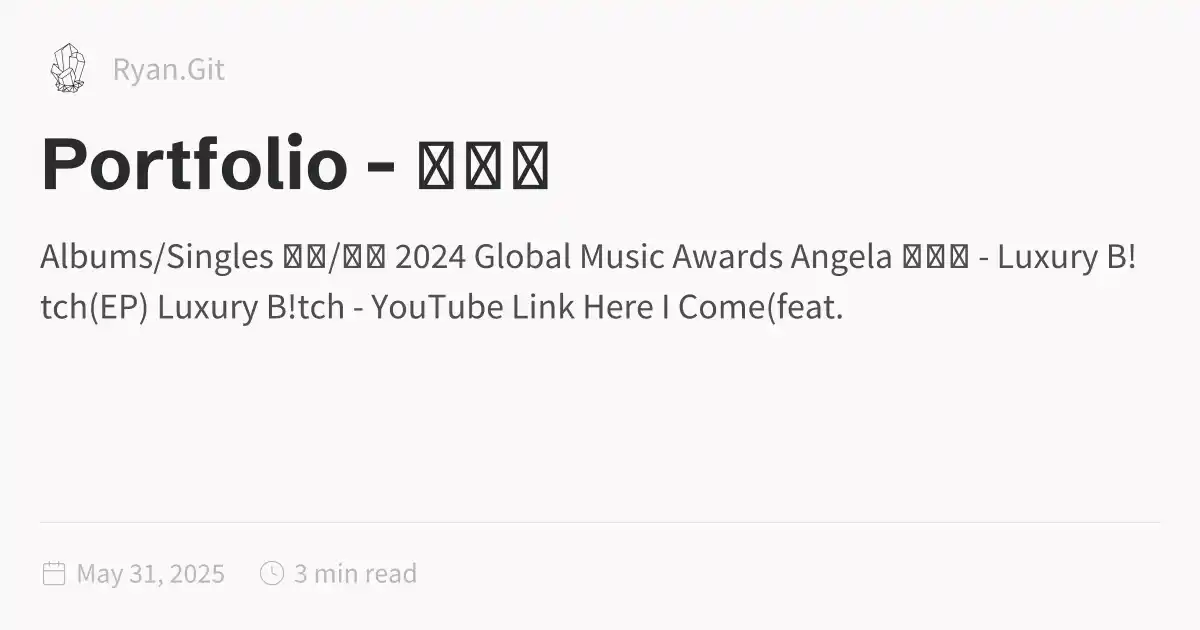
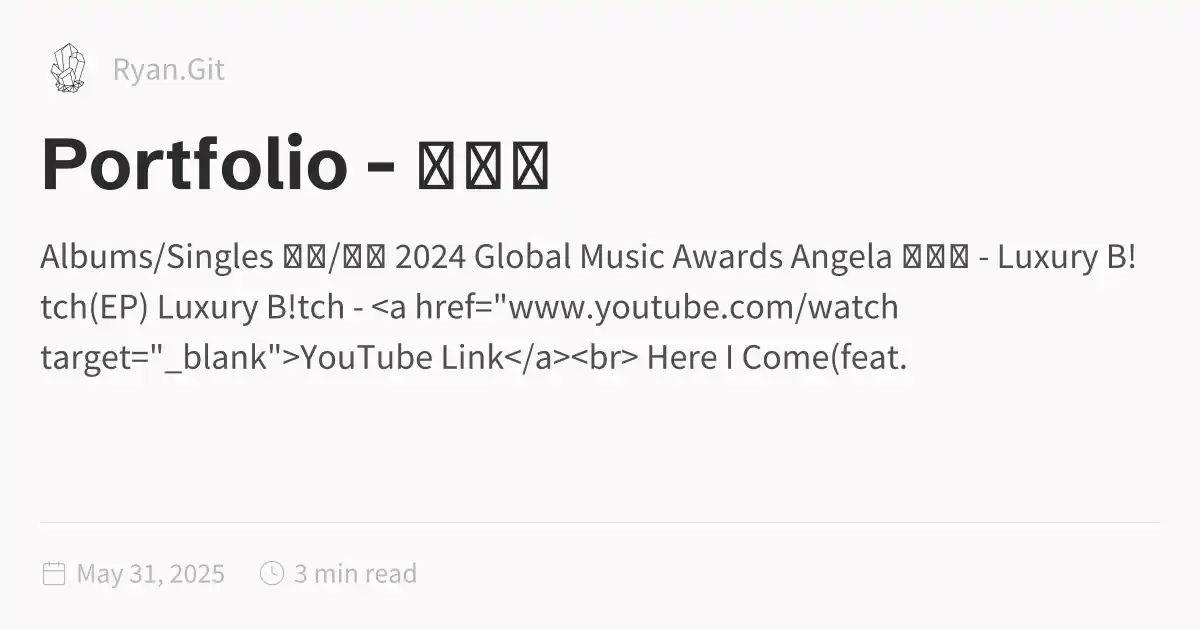
Deploy updated site

Changed region(s): [[0.1542, 0.5429, 0.7708, 0.6032], [0.3083, 0.4524, 0.74, 0.5127], [0.0308, 0.5429, 0.1233, 0.6032]]

diff --git a/Portfolio---作品集.html b/Portfolio---作品集.html
@@ -1,5 +1,5 @@
 <!DOCTYPE html>
-<html lang="en"><head><title>Portfolio - 作品集</title><meta charset="utf-8"/><link rel="preconnect" href="https://fonts.googleapis.com"/><link rel="preconnect" href="https://fonts.gstatic.com"/><link rel="stylesheet" href="https://fonts.googleapis.com/css2?family=Schibsted Grotesk:wght@400;700&amp;family=Source Sans Pro:ital,wght@0,400;0,600;1,400;1,600&amp;family=IBM Plex Mono:wght@400;600&amp;display=swap"/><link rel="preconnect" href="https://cdnjs.cloudflare.com" crossorigin="anonymous"/><meta name="viewport" content="width=device-width, initial-scale=1.0"/><meta name="og:site_name" content="Ryan.Git"/><meta property="og:title" content="Portfolio - 作品集"/><meta property="og:type" content="website"/><meta name="twitter:card" content="summary_large_image"/><meta name="twitter:title" content="Portfolio - 作品集"/><meta name="twitter:description" content="Albums/Singles 專輯/單曲 2024 Global Music Awards Angela 曾妃攸 - Luxury B!tch(EP) Luxury B!tch - YouTube Link Here I Come(feat."/><meta property="og:description" content="Albums/Singles 專輯/單曲 2024 Global Music Awards Angela 曾妃攸 - Luxury B!tch(EP) Luxury B!tch - YouTube Link Here I Come(feat."/><meta property="og:image:alt" content="Albums/Singles 專輯/單曲 2024 Global Music Awards Angela 曾妃攸 - Luxury B!tch(EP) Luxury B!tch - YouTube Link Here I Come(feat."/><meta property="twitter:domain" content="Ryan.Git"/><meta property="og:url" content="https://ryan.git/Portfolio---作品集"/><meta property="twitter:url" content="https://ryan.git/Portfolio---作品集"/><link rel="icon" href="./static/icon.png"/><meta name="description" content="Albums/Singles 專輯/單曲 2024 Global Music Awards Angela 曾妃攸 - Luxury B!tch(EP) Luxury B!tch - YouTube Link Here I Come(feat."/><meta name="generator" content="Quartz"/><link href="./index.css" rel="stylesheet" type="text/css" spa-preserve/><style>.expand-button {
+<html lang="en"><head><title>Portfolio - 作品集</title><meta charset="utf-8"/><link rel="preconnect" href="https://fonts.googleapis.com"/><link rel="preconnect" href="https://fonts.gstatic.com"/><link rel="stylesheet" href="https://fonts.googleapis.com/css2?family=Schibsted Grotesk:wght@400;700&amp;family=Source Sans Pro:ital,wght@0,400;0,600;1,400;1,600&amp;family=IBM Plex Mono:wght@400;600&amp;display=swap"/><link rel="preconnect" href="https://cdnjs.cloudflare.com" crossorigin="anonymous"/><meta name="viewport" content="width=device-width, initial-scale=1.0"/><meta name="og:site_name" content="Ryan.Git"/><meta property="og:title" content="Portfolio - 作品集"/><meta property="og:type" content="website"/><meta name="twitter:card" content="summary_large_image"/><meta name="twitter:title" content="Portfolio - 作品集"/><meta name="twitter:description" content="Albums/Singles 專輯/單曲 2024 Global Music Awards Angela 曾妃攸 - Luxury B!tch(EP) Luxury B!tch - &lt;a href=&quot;www.youtube.com/watch target=&quot;_blank&quot;>YouTube Link&lt;/a>&lt;br> Here I Come(feat."/><meta property="og:description" content="Albums/Singles 專輯/單曲 2024 Global Music Awards Angela 曾妃攸 - Luxury B!tch(EP) Luxury B!tch - &lt;a href=&quot;www.youtube.com/watch target=&quot;_blank&quot;>YouTube Link&lt;/a>&lt;br> Here I Come(feat."/><meta property="og:image:alt" content="Albums/Singles 專輯/單曲 2024 Global Music Awards Angela 曾妃攸 - Luxury B!tch(EP) Luxury B!tch - &lt;a href=&quot;www.youtube.com/watch target=&quot;_blank&quot;>YouTube Link&lt;/a>&lt;br> Here I Come(feat."/><meta property="twitter:domain" content="Ryan.Git"/><meta property="og:url" content="https://ryan.git/Portfolio---作品集"/><meta property="twitter:url" content="https://ryan.git/Portfolio---作品集"/><link rel="icon" href="./static/icon.png"/><meta name="description" content="Albums/Singles 專輯/單曲 2024 Global Music Awards Angela 曾妃攸 - Luxury B!tch(EP) Luxury B!tch - &lt;a href=&quot;www.youtube.com/watch target=&quot;_blank&quot;>YouTube Link&lt;/a>&lt;br> Here I Come(feat."/><meta name="generator" content="Quartz"/><link href="./index.css" rel="stylesheet" type="text/css" spa-preserve/><style>.expand-button {
   position: absolute;
   display: flex;
   float: right;
@@ -116,30 +116,19 @@ pre:hover > .expand-button {
   padding: 0 12px;
   font-size: 14px;
 }
[1 lines of base64/hex data omitted]
-<h2 id="albumssingles">Albums/Singles<a role="anchor" aria-hidden="true" tabindex="-1" data-no-popover="true" href="#albumssingles" class="internal"><svg width="18" height="18" viewBox="0 0 24 24" fill="none" stroke="currentColor" stroke-width="2" stroke-linecap="round" stroke-linejoin="round"><path d="M10 13a5 5 0 0 0 7.54.54l3-3a5 5 0 0 0-7.07-7.07l-1.72 1.71"></path><path d="M14 11a5 5 0 0 0-7.54-.54l-3 3a5 5 0 0 0 7.07 7.07l1.71-1.71"></path></svg></a></h2>
-<h2 id="專輯單曲">專輯/單曲<a role="anchor" aria-hidden="true" tabindex="-1" data-no-popover="true" href="#專輯單曲" class="internal"><svg width="18" height="18" viewBox="0 0 24 24" fill="none" stroke="currentColor" stroke-width="2" stroke-linecap="round" stroke-linejoin="round"><path d="M10 13a5 5 0 0 0 7.54.54l3-3a5 5 0 0 0-7.07-7.07l-1.72 1.71"></path><path d="M14 11a5 5 0 0 0-7.54-.54l-3 3a5 5 0 0 0 7.07 7.07l1.71-1.71"></path></svg></a></h2>
-<div style="text-align:center;">
-  <details style="text-align:center;">
-    <summary style="font-size:1.2em;">2024 Global Music Awards<br/> Angela 曾妃攸 - Luxury B!tch(EP)<br/></summary>
-    <div style="text-align:center;">
-      Luxury B!tch - <a href="https://www.youtube.com/watch?v=59ubI0dUuvM" target="_blank" class="external">YouTube Link<svg aria-hidden="true" class="external-icon" style="max-width:0.8em;max-height:0.8em;" viewBox="0 0 512 512"><path d="M320 0H288V64h32 82.7L201.4 265.4 178.7 288 224 333.3l22.6-22.6L448 109.3V192v32h64V192 32 0H480 320zM32 32H0V64 480v32H32 456h32V480 352 320H424v32 96H64V96h96 32V32H160 32z"></path></svg></a><br/>
-      Here I Come(feat. Raymond Anthony) - <a href="https://www.youtube.com/watch?v=g6Ts4djaQEA" target="_blank" class="external">YouTube Link<svg aria-hidden="true" class="external-icon" style="max-width:0.8em;max-height:0.8em;" viewBox="0 0 512 512"><path d="M320 0H288V64h32 82.7L201.4 265.4 178.7 288 224 333.3l22.6-22.6L448 109.3V192v32h64V192 32 0H480 320zM32 32H0V64 480v32H32 456h32V480 352 320H424v32 96H64V96h96 32V32H160 32z"></path></svg></a><br/>
-      Tan - <a href="https://www.youtube.com/watch?v=v9j_55vB6DI" target="_blank" class="external">YouTube Link<svg aria-hidden="true" class="external-icon" style="max-width:0.8em;max-height:0.8em;" viewBox="0 0 512 512"><path d="M320 0H288V64h32 82.7L201.4 265.4 178.7 288 224 333.3l22.6-22.6L448 109.3V192v32h64V192 32 0H480 320zM32 32H0V64 480v32H32 456h32V480 352 320H424v32 96H64V96h96 32V32H160 32z"></path></svg></a>
-    </div>
-  </details>
-</div>
-<div style="text-align:center;">
- <details style="text-align:center;">
-   <summary style="font-size:1.2em;">Y.F. Koko 柯小丰 - 原來公主不住城堡(EP)<br/></summary>
-   <div style="text-align:center;">
-     In Your Eyes - <a href="https://www.youtube.com/watch?v=5nc4TINEk14" target="_blank" class="external">YouTube Link<svg aria-hidden="true" class="external-icon" style="max-width:0.8em;max-height:0.8em;" viewBox="0 0 512 512"><path d="M320 0H288V64h32 82.7L201.4 265.4 178.7 288 224 333.3l22.6-22.6L448 109.3V192v32h64V192 32 0H480 320zM32 32H0V64 480v32H32 456h32V480 352 320H424v32 96H64V96h96 32V32H160 32z"></path></svg></a><br/>
-     Tell Me Why(feat. R.M.A.) - <a href="https://www.youtube.com/watch?v=CiPVJVV-7aY" target="_blank" class="external">YouTube Link<svg aria-hidden="true" class="external-icon" style="max-width:0.8em;max-height:0.8em;" viewBox="0 0 512 512"><path d="M320 0H288V64h32 82.7L201.4 265.4 178.7 288 224 333.3l22.6-22.6L448 109.3V192v32h64V192 32 0H480 320zM32 32H0V64 480v32H32 456h32V480 352 320H424v32 96H64V96h96 32V32H160 32z"></path></svg></a><br/>
-     既然你 - <a href="https://www.youtube.com/watch?v=IIPEhA9Uc_w" target="_blank" class="external">YouTube Link<svg aria-hidden="true" class="external-icon" style="max-width:0.8em;max-height:0.8em;" viewBox="0 0 512 512"><path d="M320 0H288V64h32 82.7L201.4 265.4 178.7 288 224 333.3l22.6-22.6L448 109.3V192v32h64V192 32 0H480 320zM32 32H0V64 480v32H32 456h32V480 352 320H424v32 96H64V96h96 32V32H160 32z"></path></svg></a><br/>
-     如有雷同 - <a href="https://youtu.be/Rkqp633eWIQ?si=ivJKoEsIESxsuEy-" target="_blank" class="external">YouTube Link<svg aria-hidden="true" class="external-icon" style="max-width:0.8em;max-height:0.8em;" viewBox="0 0 512 512"><path d="M320 0H288V64h32 82.7L201.4 265.4 178.7 288 224 333.3l22.6-22.6L448 109.3V192v32h64V192 32 0H480 320zM32 32H0V64 480v32H32 456h32V480 352 320H424v32 96H64V96h96 32V32H160 32z"></path></svg></a>
-   </div>
- </details>
-</div>
[1 lines of base64/hex data omitted]
+<h2 id="albumssingles-專輯單曲">Albums/Singles 專輯/單曲<a role="anchor" aria-hidden="true" tabindex="-1" data-no-popover="true" href="#albumssingles-專輯單曲" class="internal"><svg width="18" height="18" viewBox="0 0 24 24" fill="none" stroke="currentColor" stroke-width="2" stroke-linecap="round" stroke-linejoin="round"><path d="M10 13a5 5 0 0 0 7.54.54l3-3a5 5 0 0 0-7.07-7.07l-1.72 1.71"></path><path d="M14 11a5 5 0 0 0-7.54-.54l-3 3a5 5 0 0 0 7.07 7.07l1.71-1.71"></path></svg></a></h2>
+<h4 id="2024-global-music-awards-angela-曾妃攸---luxury-btchep">2024 Global Music Awards<br/> Angela 曾妃攸 - Luxury B!tch(EP)<a role="anchor" aria-hidden="true" tabindex="-1" data-no-popover="true" href="#2024-global-music-awards-angela-曾妃攸---luxury-btchep" class="internal"><svg width="18" height="18" viewBox="0 0 24 24" fill="none" stroke="currentColor" stroke-width="2" stroke-linecap="round" stroke-linejoin="round"><path d="M10 13a5 5 0 0 0 7.54.54l3-3a5 5 0 0 0-7.07-7.07l-1.72 1.71"></path><path d="M14 11a5 5 0 0 0-7.54-.54l-3 3a5 5 0 0 0 7.07 7.07l1.71-1.71"></path></svg></a></h4>
+<pre><code>  Luxury B!tch - &lt;a href=&quot;https://www.youtube.com/watch?v=59ubI0dUuvM&quot; target=&quot;_blank&quot;>YouTube Link&lt;/a>&lt;br>
+  Here I Come(feat. Raymond Anthony) - &lt;a href=&quot;https://www.youtube.com/watch?v=g6Ts4djaQEA&quot; target=&quot;_blank&quot;>YouTube Link&lt;/a>&lt;br>
+  Tan - &lt;a href=&quot;https://www.youtube.com/watch?v=v9j_55vB6DI&quot; target=&quot;_blank&quot;>YouTube Link&lt;/a>
+</code></pre>
+<h4 id="yf-koko-柯小丰---原來公主不住城堡ep">Y.F. Koko 柯小丰 - 原來公主不住城堡(EP)<br/><a role="anchor" aria-hidden="true" tabindex="-1" data-no-popover="true" href="#yf-koko-柯小丰---原來公主不住城堡ep" class="internal"><svg width="18" height="18" viewBox="0 0 24 24" fill="none" stroke="currentColor" stroke-width="2" stroke-linecap="round" stroke-linejoin="round"><path d="M10 13a5 5 0 0 0 7.54.54l3-3a5 5 0 0 0-7.07-7.07l-1.72 1.71"></path><path d="M14 11a5 5 0 0 0-7.54-.54l-3 3a5 5 0 0 0 7.07 7.07l1.71-1.71"></path></svg></a></h4>
+<pre><code> In Your Eyes - &lt;a href=&quot;https://www.youtube.com/watch?v=5nc4TINEk14&quot; target=&quot;_blank&quot;>YouTube Link&lt;/a>&lt;br>
+ Tell Me Why(feat. R.M.A.) - &lt;a href=&quot;https://www.youtube.com/watch?v=CiPVJVV-7aY&quot; target=&quot;_blank&quot;>YouTube Link&lt;/a>&lt;br>
+ 既然你 - &lt;a href=&quot;https://www.youtube.com/watch?v=IIPEhA9Uc_w&quot; target=&quot;_blank&quot;>YouTube Link&lt;/a>&lt;br>
+ 如有雷同 - &lt;a href=&quot;https://youtu.be/Rkqp633eWIQ?si=ivJKoEsIESxsuEy-&quot; target=&quot;_blank&quot;>YouTube Link&lt;/a>
+</code></pre>
 <p>Keanna Taiyh - 雙魚游泳(feat. 雞二兄弟) - <a href="https://www.youtube.com/watch?v=2NqBmzbP6j8" target="_blank" class="external">YouTube Link<svg aria-hidden="true" class="external-icon" style="max-width:0.8em;max-height:0.8em;" viewBox="0 0 512 512"><path d="M320 0H288V64h32 82.7L201.4 265.4 178.7 288 224 333.3l22.6-22.6L448 109.3V192v32h64V192 32 0H480 320zM32 32H0V64 480v32H32 456h32V480 352 320H424v32 96H64V96h96 32V32H160 32z"></path></svg></a><br/>
 Keanna Taiyh - 點點頭 Nod(feat. 雞二兄弟) - <a href="https://www.youtube.com/watch?v=Ae68V3IG_iU" target="_blank" class="external">YouTube Link<svg aria-hidden="true" class="external-icon" style="max-width:0.8em;max-height:0.8em;" viewBox="0 0 512 512"><path d="M320 0H288V64h32 82.7L201.4 265.4 178.7 288 224 333.3l22.6-22.6L448 109.3V192v32h64V192 32 0H480 320zM32 32H0V64 480v32H32 456h32V480 352 320H424v32 96H64V96h96 32V32H160 32z"></path></svg></a><br/>
 竜生RS - 相愛的我們 - <a href="https://www.youtube.com/watch?v=JS7l7anIpuA" target="_blank" class="external">YouTube Link<svg aria-hidden="true" class="external-icon" style="max-width:0.8em;max-height:0.8em;" viewBox="0 0 512 512"><path d="M320 0H288V64h32 82.7L201.4 265.4 178.7 288 224 333.3l22.6-22.6L448 109.3V192v32h64V192 32 0H480 320zM32 32H0V64 480v32H32 456h32V480 352 320H424v32 96H64V96h96 32V32H160 32z"></path></svg></a><br/>
@@ -151,8 +140,7 @@ Keanna Taiyh - 點點頭 Nod(feat. 雞二兄弟) - <a href="https://www.youtube.
 G2bro - SWMFT - <a href="https://www.youtube.com/watch?v=b6KXoL_Ihd8" target="_blank" class="external">YouTube Link<svg aria-hidden="true" class="external-icon" style="max-width:0.8em;max-height:0.8em;" viewBox="0 0 512 512"><path d="M320 0H288V64h32 82.7L201.4 265.4 178.7 288 224 333.3l22.6-22.6L448 109.3V192v32h64V192 32 0H480 320zM32 32H0V64 480v32H32 456h32V480 352 320H424v32 96H64V96h96 32V32H160 32z"></path></svg></a><br/>
 G2bro - 小雞掰 - <a href="https://www.youtube.com/watch?v=84WsnHqJA5c" target="_blank" class="external">YouTube Link<svg aria-hidden="true" class="external-icon" style="max-width:0.8em;max-height:0.8em;" viewBox="0 0 512 512"><path d="M320 0H288V64h32 82.7L201.4 265.4 178.7 288 224 333.3l22.6-22.6L448 109.3V192v32h64V192 32 0H480 320zM32 32H0V64 480v32H32 456h32V480 352 320H424v32 96H64V96h96 32V32H160 32z"></path></svg></a><br/>
 G2bro - 喇叭妮 (feat. 許晨晞aka.喇叭妮) - <a href="https://www.youtube.com/watch?v=Ee6m_3i28wg" target="_blank" class="external">YouTube Link<svg aria-hidden="true" class="external-icon" style="max-width:0.8em;max-height:0.8em;" viewBox="0 0 512 512"><path d="M320 0H288V64h32 82.7L201.4 265.4 178.7 288 224 333.3l22.6-22.6L448 109.3V192v32h64V192 32 0H480 320zM32 32H0V64 480v32H32 456h32V480 352 320H424v32 96H64V96h96 32V32H160 32z"></path></svg></a></p>
-<h2 id="films-and-games-soundtracks">Films and Games Soundtracks<a role="anchor" aria-hidden="true" tabindex="-1" data-no-popover="true" href="#films-and-games-soundtracks" class="internal"><svg width="18" height="18" viewBox="0 0 24 24" fill="none" stroke="currentColor" stroke-width="2" stroke-linecap="round" stroke-linejoin="round"><path d="M10 13a5 5 0 0 0 7.54.54l3-3a5 5 0 0 0-7.07-7.07l-1.72 1.71"></path><path d="M14 11a5 5 0 0 0-7.54-.54l-3 3a5 5 0 0 0 7.07 7.07l1.71-1.71"></path></svg></a></h2>
-<h2 id="已發行之影視遊戲配樂">已發行之影視遊戲配樂<a role="anchor" aria-hidden="true" tabindex="-1" data-no-popover="true" href="#已發行之影視遊戲配樂" class="internal"><svg width="18" height="18" viewBox="0 0 24 24" fill="none" stroke="currentColor" stroke-width="2" stroke-linecap="round" stroke-linejoin="round"><path d="M10 13a5 5 0 0 0 7.54.54l3-3a5 5 0 0 0-7.07-7.07l-1.72 1.71"></path><path d="M14 11a5 5 0 0 0-7.54-.54l-3 3a5 5 0 0 0 7.07 7.07l1.71-1.71"></path></svg></a></h2>
+<h2 id="films-and-games-soundtracks-已發行之影視遊戲配樂">Films and Games Soundtracks 已發行之影視遊戲配樂<a role="anchor" aria-hidden="true" tabindex="-1" data-no-popover="true" href="#films-and-games-soundtracks-已發行之影視遊戲配樂" class="internal"><svg width="18" height="18" viewBox="0 0 24 24" fill="none" stroke="currentColor" stroke-width="2" stroke-linecap="round" stroke-linejoin="round"><path d="M10 13a5 5 0 0 0 7.54.54l3-3a5 5 0 0 0-7.07-7.07l-1.72 1.71"></path><path d="M14 11a5 5 0 0 0-7.54-.54l-3 3a5 5 0 0 0 7.07 7.07l1.71-1.71"></path></svg></a></h2>
 <p>ACT 1 Endeavor 努力
 <audio controls>
 <source src="audio/ACT-1-Endeavor.mp3" type="audio/mpeg"/>
@@ -278,9 +266,9 @@ Your browser does not support the audio element.
 <source src="audio/XL-Ripples-Inside.mp3" type="audio/mpeg"/>
 Your browser does not support the audio element.
 </audio></p>
-</div>
 <h3 id="樂利錄音室服務項目"><a href="./Lovely-Road-Studio---樂利錄音室" class="internal alias" data-slug="Lovely-Road-Studio---樂利錄音室">樂利錄音室服務項目</a><a role="anchor" aria-hidden="true" tabindex="-1" data-no-popover="true" href="#樂利錄音室服務項目" class="internal"><svg width="18" height="18" viewBox="0 0 24 24" fill="none" stroke="currentColor" stroke-width="2" stroke-linecap="round" stroke-linejoin="round"><path d="M10 13a5 5 0 0 0 7.54.54l3-3a5 5 0 0 0-7.07-7.07l-1.72 1.71"></path><path d="M14 11a5 5 0 0 0-7.54-.54l-3 3a5 5 0 0 0 7.07 7.07l1.71-1.71"></path></svg></a></h3>
-<p><img src="./contact-2.png" width="auto" height="auto" alt/></p></article><hr/><div class="page-footer"></div></div><div class="right sidebar"><div class="graph"><h3>Graph View</h3><div class="graph-outer"><div class="graph-container" data-cfg="{&quot;drag&quot;:true,&quot;zoom&quot;:true,&quot;depth&quot;:1,&quot;scale&quot;:1.1,&quot;repelForce&quot;:0.5,&quot;centerForce&quot;:0.3,&quot;linkDistance&quot;:30,&quot;fontSize&quot;:0.6,&quot;opacityScale&quot;:1,&quot;showTags&quot;:true,&quot;removeTags&quot;:[],&quot;focusOnHover&quot;:false,&quot;enableRadial&quot;:false}"></div><button class="global-graph-icon" aria-label="Global Graph"><svg version="1.1" xmlns="http://www.w3.org/2000/svg" xmlns:xlink="http://www.w3.org/1999/xlink" x="0px" y="0px" viewBox="0 0 55 55" fill="currentColor" xml:space="preserve"><path d="M49,0c-3.309,0-6,2.691-6,6c0,1.035,0.263,2.009,0.726,2.86l-9.829,9.829C32.542,17.634,30.846,17,29,17
+</div>
+![[contact 2.png]]</article><hr/><div class="page-footer"></div></div><div class="right sidebar"><div class="graph"><h3>Graph View</h3><div class="graph-outer"><div class="graph-container" data-cfg="{&quot;drag&quot;:true,&quot;zoom&quot;:true,&quot;depth&quot;:1,&quot;scale&quot;:1.1,&quot;repelForce&quot;:0.5,&quot;centerForce&quot;:0.3,&quot;linkDistance&quot;:30,&quot;fontSize&quot;:0.6,&quot;opacityScale&quot;:1,&quot;showTags&quot;:true,&quot;removeTags&quot;:[],&quot;focusOnHover&quot;:false,&quot;enableRadial&quot;:false}"></div><button class="global-graph-icon" aria-label="Global Graph"><svg version="1.1" xmlns="http://www.w3.org/2000/svg" xmlns:xlink="http://www.w3.org/1999/xlink" x="0px" y="0px" viewBox="0 0 55 55" fill="currentColor" xml:space="preserve"><path d="M49,0c-3.309,0-6,2.691-6,6c0,1.035,0.263,2.009,0.726,2.86l-9.829,9.829C32.542,17.634,30.846,17,29,17
                 s-3.542,0.634-4.898,1.688l-7.669-7.669C16.785,10.424,17,9.74,17,9c0-2.206-1.794-4-4-4S9,6.794,9,9s1.794,4,4,4
                 c0.74,0,1.424-0.215,2.019-0.567l7.669,7.669C21.634,21.458,21,23.154,21,25s0.634,3.542,1.688,4.897L10.024,42.562
                 C8.958,41.595,7.549,41,6,41c-3.309,0-6,2.691-6,6s2.691,6,6,6s6-2.691,6-6c0-1.035-0.263-2.009-0.726-2.86l12.829-12.829
@@ -290,6 +278,6 @@ Your browser does not support the audio element.
                 C46.042,11.405,47.451,12,49,12c3.309,0,6-2.691,6-6S52.309,0,49,0z M11,9c0-1.103,0.897-2,2-2s2,0.897,2,2s-0.897,2-2,2
                 S11,10.103,11,9z M6,51c-2.206,0-4-1.794-4-4s1.794-4,4-4s4,1.794,4,4S8.206,51,6,51z M33,49c0,2.206-1.794,4-4,4s-4-1.794-4-4
                 s1.794-4,4-4S33,46.794,33,49z M29,31c-3.309,0-6-2.691-6-6s2.691-6,6-6s6,2.691,6,6S32.309,31,29,31z M47,41c0,1.103-0.897,2-2,2
-                s-2-0.897-2-2s0.897-2,2-2S47,39.897,47,41z M49,10c-2.206,0-4-1.794-4-4s1.794-4,4-4s4,1.794,4,4S51.206,10,49,10z"></path></svg></button></div><div class="global-graph-outer"><div class="global-graph-container" data-cfg="{&quot;drag&quot;:true,&quot;zoom&quot;:true,&quot;depth&quot;:-1,&quot;scale&quot;:0.9,&quot;repelForce&quot;:0.5,&quot;centerForce&quot;:0.2,&quot;linkDistance&quot;:30,&quot;fontSize&quot;:0.6,&quot;opacityScale&quot;:1,&quot;showTags&quot;:true,&quot;removeTags&quot;:[],&quot;focusOnHover&quot;:true,&quot;enableRadial&quot;:true}"></div></div></div><div class="toc desktop-only"><button type="button" class="toc-header" aria-controls="toc-content" aria-expanded="true"><h3>Table of Contents</h3><svg xmlns="http://www.w3.org/2000/svg" width="24" height="24" viewBox="0 0 24 24" fill="none" stroke="currentColor" stroke-width="2" stroke-linecap="round" stroke-linejoin="round" class="fold"><polyline points="6 9 12 15 18 9"></polyline></svg></button><ul class="toc-content overflow" id="list-1"><li class="depth-0"><a href="#albumssingles" data-for="albumssingles">Albums/Singles</a></li><li class="depth-0"><a href="#專輯單曲" data-for="專輯單曲">專輯/單曲</a></li><li class="depth-0"><a href="#films-and-games-soundtracks" data-for="films-and-games-soundtracks">Films and Games Soundtracks</a></li><li class="depth-0"><a href="#已發行之影視遊戲配樂" data-for="已發行之影視遊戲配樂">已發行之影視遊戲配樂</a></li><li class="depth-1"><a href="#樂利錄音室服務項目" data-for="樂利錄音室服務項目">樂利錄音室服務項目</a></li><li class="overflow-end"></li></ul></div><div class="backlinks"><h3>Backlinks</h3><ul id="list-2" class="overflow"><li><a href="./Lovely-Road-Studio---樂利錄音室" class="internal">Lovely Road Studio - 樂利錄音室</a></li><li><a href="./Ryan-Marshall-Anthony-(莊來恩)---Bio" class="internal">Ryan Marshall Anthony (莊來恩) - Bio</a></li><li class="overflow-end"></li></ul></div></div><footer class><p>Created with <a href="https://quartz.jzhao.xyz/">Quartz v4.5.0</a> © 2025</p><ul><li><a href="https://github.com/jackyzha0/quartz">GitHub</a></li><li><a href="https://discord.gg/cRFFHYye7t">Discord Community</a></li></ul></footer></div></div></body><script type="application/javascript">function n(){let t=this.parentElement;t.classList.toggle("is-collapsed");let e=t.getElementsByClassName("callout-content")[0];if(!e)return;let l=t.classList.contains("is-collapsed");e.style.gridTemplateRows=l?"0fr":"1fr"}function c(){let t=document.getElementsByClassName("callout is-collapsible");for(let e of t){let l=e.getElementsByClassName("callout-title")[0],s=e.getElementsByClassName("callout-content")[0];if(!l||!s)continue;l.addEventListener("click",n),window.addCleanup(()=>l.removeEventListener("click",n));let o=e.classList.contains("is-collapsed");s.style.gridTemplateRows=o?"0fr":"1fr"}}document.addEventListener("nav",c);
+                s-2-0.897-2-2s0.897-2,2-2S47,39.897,47,41z M49,10c-2.206,0-4-1.794-4-4s1.794-4,4-4s4,1.794,4,4S51.206,10,49,10z"></path></svg></button></div><div class="global-graph-outer"><div class="global-graph-container" data-cfg="{&quot;drag&quot;:true,&quot;zoom&quot;:true,&quot;depth&quot;:-1,&quot;scale&quot;:0.9,&quot;repelForce&quot;:0.5,&quot;centerForce&quot;:0.2,&quot;linkDistance&quot;:30,&quot;fontSize&quot;:0.6,&quot;opacityScale&quot;:1,&quot;showTags&quot;:true,&quot;removeTags&quot;:[],&quot;focusOnHover&quot;:true,&quot;enableRadial&quot;:true}"></div></div></div><div class="toc desktop-only"><button type="button" class="toc-header" aria-controls="toc-content" aria-expanded="true"><h3>Table of Contents</h3><svg xmlns="http://www.w3.org/2000/svg" width="24" height="24" viewBox="0 0 24 24" fill="none" stroke="currentColor" stroke-width="2" stroke-linecap="round" stroke-linejoin="round" class="fold"><polyline points="6 9 12 15 18 9"></polyline></svg></button><ul class="toc-content overflow" id="list-1"><li class="depth-0"><a href="#albumssingles-專輯單曲" data-for="albumssingles-專輯單曲">Albums/Singles 專輯/單曲</a></li><li class="depth-0"><a href="#films-and-games-soundtracks-已發行之影視遊戲配樂" data-for="films-and-games-soundtracks-已發行之影視遊戲配樂">Films and Games Soundtracks 已發行之影視遊戲配樂</a></li><li class="depth-1"><a href="#樂利錄音室服務項目" data-for="樂利錄音室服務項目">樂利錄音室服務項目</a></li><li class="overflow-end"></li></ul></div><div class="backlinks"><h3>Backlinks</h3><ul id="list-2" class="overflow"><li><a href="./Lovely-Road-Studio---樂利錄音室" class="internal">Lovely Road Studio - 樂利錄音室</a></li><li><a href="./Ryan-Marshall-Anthony-(莊來恩)---Bio" class="internal">Ryan Marshall Anthony (莊來恩) - Bio</a></li><li class="overflow-end"></li></ul></div></div><footer class><p>Created with <a href="https://quartz.jzhao.xyz/">Quartz v4.5.0</a> © 2025</p><ul><li><a href="https://github.com/jackyzha0/quartz">GitHub</a></li><li><a href="https://discord.gg/cRFFHYye7t">Discord Community</a></li></ul></footer></div></div></body><script type="application/javascript">function n(){let t=this.parentElement;t.classList.toggle("is-collapsed");let e=t.getElementsByClassName("callout-content")[0];if(!e)return;let l=t.classList.contains("is-collapsed");e.style.gridTemplateRows=l?"0fr":"1fr"}function c(){let t=document.getElementsByClassName("callout is-collapsible");for(let e of t){let l=e.getElementsByClassName("callout-title")[0],s=e.getElementsByClassName("callout-content")[0];if(!l||!s)continue;l.addEventListener("click",n),window.addCleanup(()=>l.removeEventListener("click",n));let o=e.classList.contains("is-collapsed");s.style.gridTemplateRows=o?"0fr":"1fr"}}document.addEventListener("nav",c);
 </script><script type="module">function f(i,e){if(!i)return;function r(o){o.target===this&&(o.preventDefault(),o.stopPropagation(),e())}function t(o){o.key.startsWith("Esc")&&(o.preventDefault(),e())}i?.addEventListener("click",r),window.addCleanup(()=>i?.removeEventListener("click",r)),document.addEventListener("keydown",t),window.addCleanup(()=>document.removeEventListener("keydown",t))}function y(i){for(;i.firstChild;)i.removeChild(i.firstChild)}var h=class{constructor(e,r){this.container=e;this.content=r;this.setupEventListeners(),this.setupNavigationControls(),this.resetTransform()}isDragging=!1;startPan={x:0,y:0};currentPan={x:0,y:0};scale=1;MIN_SCALE=.5;MAX_SCALE=3;cleanups=[];setupEventListeners(){let e=this.onMouseDown.bind(this),r=this.onMouseMove.bind(this),t=this.onMouseUp.bind(this),o=this.resetTransform.bind(this);this.container.addEventListener("mousedown",e),document.addEventListener("mousemove",r),document.addEventListener("mouseup",t),window.addEventListener("resize",o),this.cleanups.push(()=>this.container.removeEventListener("mousedown",e),()=>document.removeEventListener("mousemove",r),()=>document.removeEventListener("mouseup",t),()=>window.removeEventListener("resize",o))}cleanup(){for(let e of this.cleanups)e()}setupNavigationControls(){let e=document.createElement("div");e.className="mermaid-controls";let r=this.createButton("+",()=>this.zoom(.1)),t=this.createButton("-",()=>this.zoom(-.1)),o=this.createButton("Reset",()=>this.resetTransform());e.appendChild(t),e.appendChild(o),e.appendChild(r),this.container.appendChild(e)}createButton(e,r){let t=document.createElement("button");return t.textContent=e,t.className="mermaid-control-button",t.addEventListener("click",r),window.addCleanup(()=>t.removeEventListener("click",r)),t}onMouseDown(e){e.button===0&&(this.isDragging=!0,this.startPan={x:e.clientX-this.currentPan.x,y:e.clientY-this.currentPan.y},this.container.style.cursor="grabbing")}onMouseMove(e){this.isDragging&&(e.preventDefault(),this.currentPan={x:e.clientX-this.startPan.x,y:e.clientY-this.startPan.y},this.updateTransform())}onMouseUp(){this.isDragging=!1,this.container.style.cursor="grab"}zoom(e){let r=Math.min(Math.max(this.scale+e,this.MIN_SCALE),this.MAX_SCALE),t=this.content.getBoundingClientRect(),o=t.width/2,n=t.height/2,c=r-this.scale;this.currentPan.x-=o*c,this.currentPan.y-=n*c,this.scale=r,this.updateTransform()}updateTransform(){this.content.style.transform=`translate(${this.currentPan.x}px, ${this.currentPan.y}px) scale(${this.scale})`}resetTransform(){this.scale=1;let e=this.content.querySelector("svg");this.currentPan={x:e.getBoundingClientRect().width/2,y:e.getBoundingClientRect().height/2},this.updateTransform()}},C=["--secondary","--tertiary","--gray","--light","--lightgray","--highlight","--dark","--darkgray","--codeFont"],E;document.addEventListener("nav",async()=>{let e=document.querySelector(".center").querySelectorAll("code.mermaid");if(e.length===0)return;E||=await import("https://cdnjs.cloudflare.com/ajax/libs/mermaid/11.4.0/mermaid.esm.min.mjs");let r=E.default,t=new WeakMap;for(let n of e)t.set(n,n.innerText);async function o(){for(let s of e){s.removeAttribute("data-processed");let a=t.get(s);a&&(s.innerHTML=a)}let n=C.reduce((s,a)=>(s[a]=window.getComputedStyle(document.documentElement).getPropertyValue(a),s),{}),c=document.documentElement.getAttribute("saved-theme")==="dark";r.initialize({startOnLoad:!1,securityLevel:"loose",theme:c?"dark":"base",themeVariables:{fontFamily:n["--codeFont"],primaryColor:n["--light"],primaryTextColor:n["--darkgray"],primaryBorderColor:n["--tertiary"],lineColor:n["--darkgray"],secondaryColor:n["--secondary"],tertiaryColor:n["--tertiary"],clusterBkg:n["--light"],edgeLabelBackground:n["--highlight"]}}),await r.run({nodes:e})}await o(),document.addEventListener("themechange",o),window.addCleanup(()=>document.removeEventListener("themechange",o));for(let n=0;n<e.length;n++){let v=function(){let g=l.querySelector("#mermaid-space"),m=l.querySelector(".mermaid-content");if(!m)return;y(m);let w=c.querySelector("svg").cloneNode(!0);m.appendChild(w),l.classList.add("active"),g.style.cursor="grab",u=new h(g,m)},M=function(){l.classList.remove("active"),u?.cleanup(),u=null},c=e[n],s=c.parentElement,a=s.querySelector(".clipboard-button"),d=s.querySelector(".expand-button"),p=window.getComputedStyle(a),L=a.offsetWidth+parseFloat(p.marginLeft||"0")+parseFloat(p.marginRight||"0");d.style.right=`calc(${L}px + 0.3rem)`,s.prepend(d);let l=s.querySelector("#mermaid-container");if(!l)return;let u=null;d.addEventListener("click",v),f(l,M),window.addCleanup(()=>{u?.cleanup(),d.removeEventListener("click",v)})}});
 </script><script src="https://cdn.jsdelivr.net/npm/katex@0.16.11/dist/contrib/copy-tex.min.js" type="application/javascript"></script><script src="./postscript.js" type="module"></script></html>

diff --git a/Lovely-Road-Studio---樂利錄音室.html b/Lovely-Road-Studio---樂利錄音室.html
@@ -116,7 +116,7 @@ pre:hover > .expand-button {
   padding: 0 12px;
   font-size: 14px;
 }
[2 lines of base64/hex data omitted]
 <img src="./樂利錄音室-服務項目＆價目-2-1.png" width="auto" height="auto" alt/></p>
 <div style="text-align:center;">
 <h3 id="作品集"><a href="./Portfolio---作品集" class="internal alias" data-slug="Portfolio---作品集">作品集</a><a role="anchor" aria-hidden="true" tabindex="-1" data-no-popover="true" href="#作品集" class="internal"><svg width="18" height="18" viewBox="0 0 24 24" fill="none" stroke="currentColor" stroke-width="2" stroke-linecap="round" stroke-linejoin="round"><path d="M10 13a5 5 0 0 0 7.54.54l3-3a5 5 0 0 0-7.07-7.07l-1.72 1.71"></path><path d="M14 11a5 5 0 0 0-7.54-.54l-3 3a5 5 0 0 0 7.07 7.07l1.71-1.71"></path></svg></a></h3>
